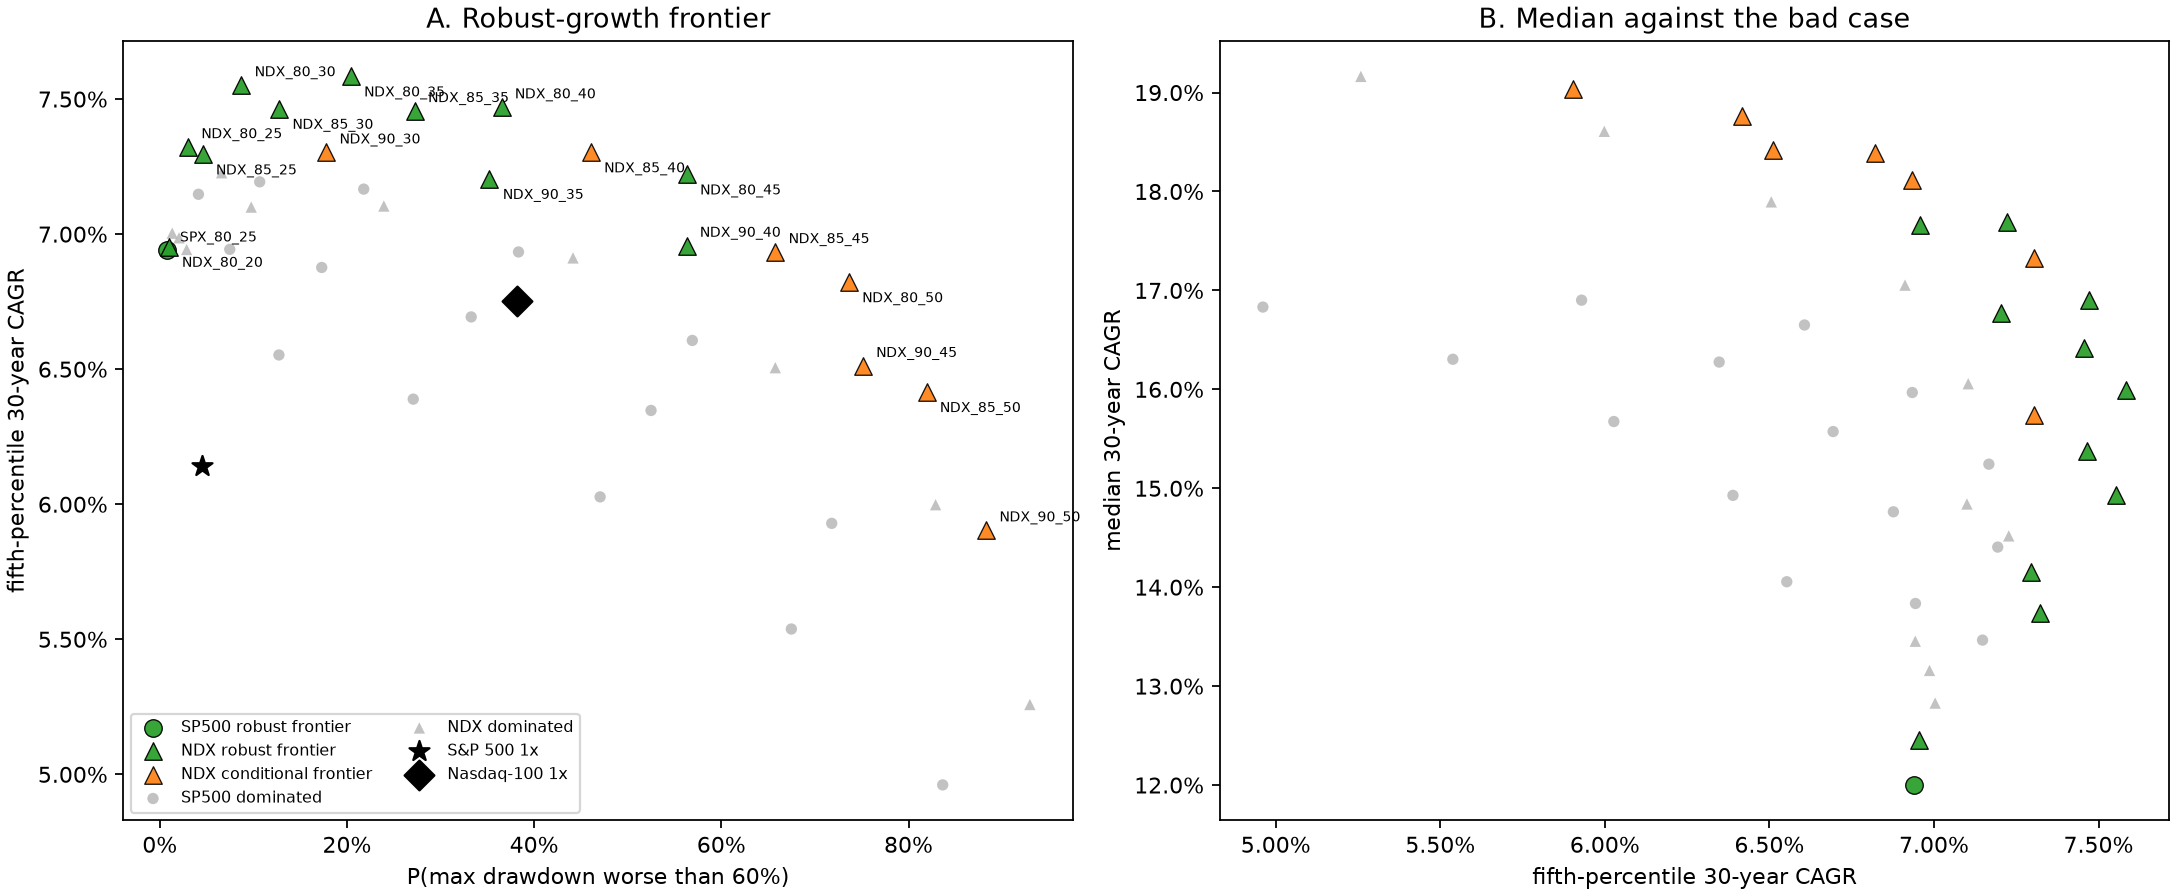
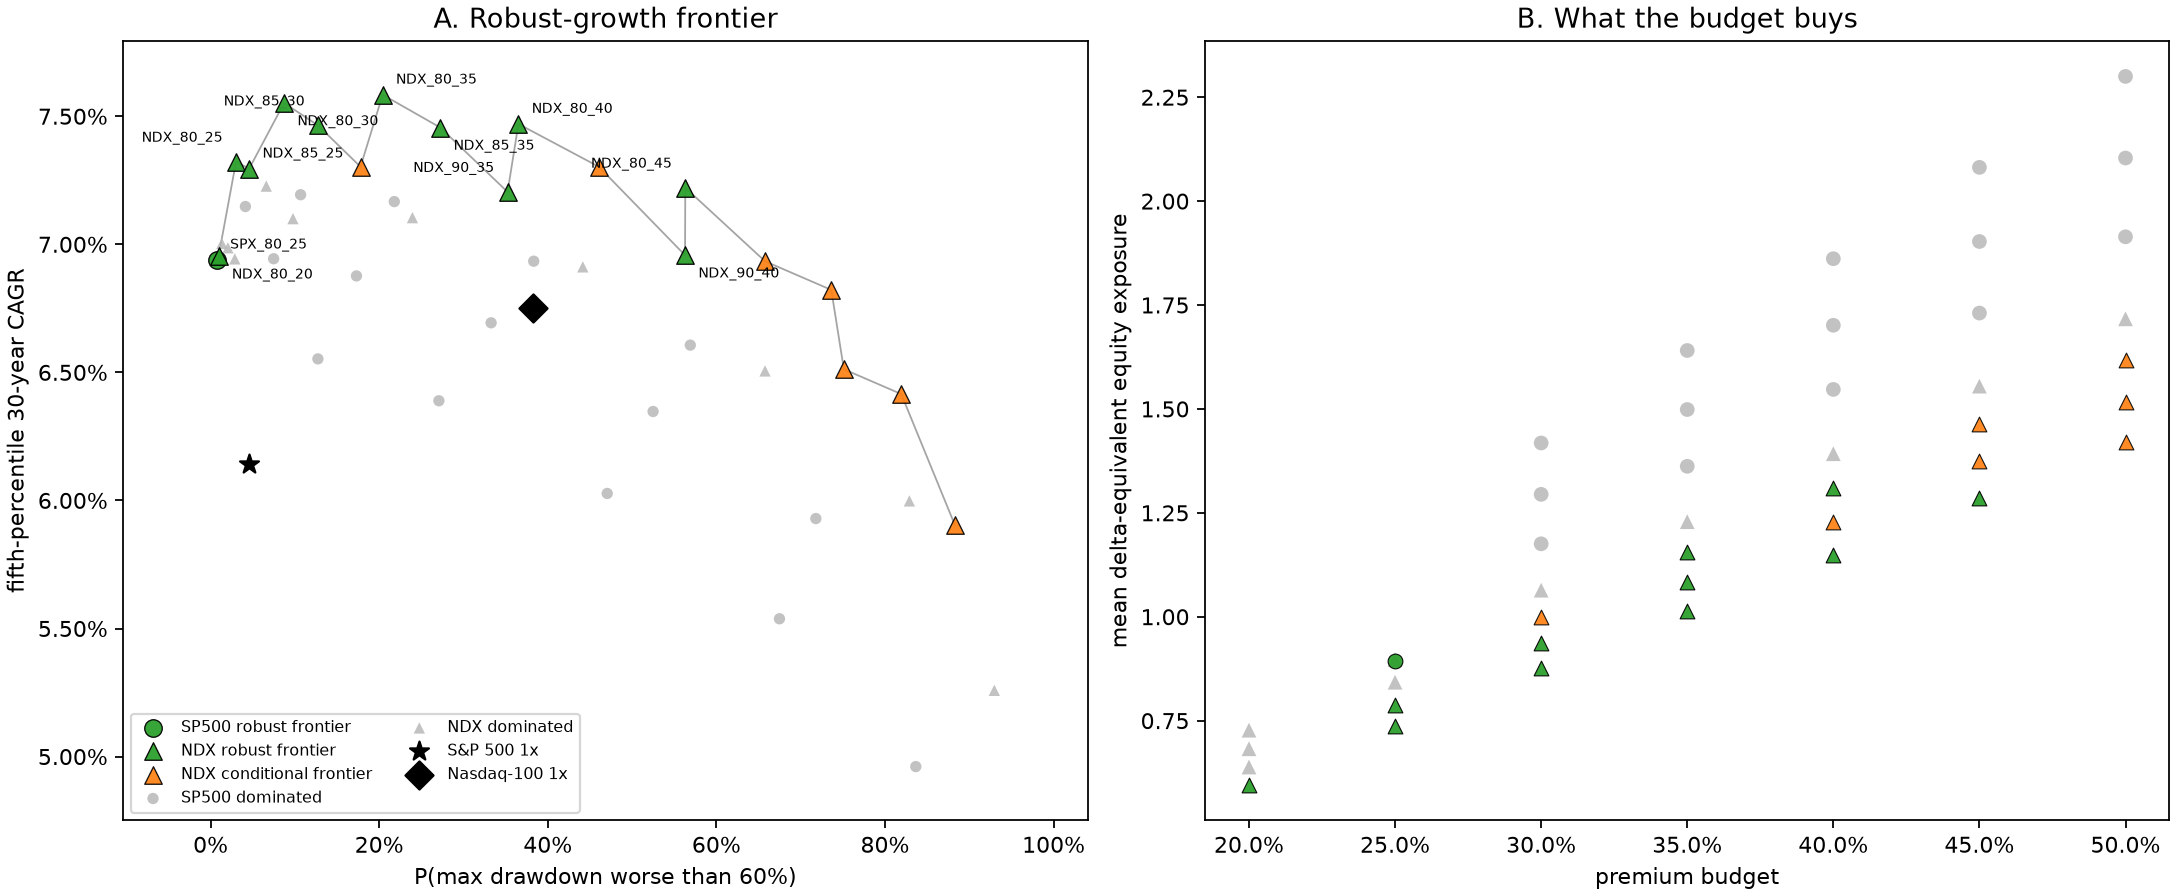
Draw the growth frontier at every horizon, not just at thirty years
The frontier curve was only ever drawn at the horizon a candidate is classified
at. It is now a two-by-three grid: median CAGR against median max drawdown at
ten, twenty and thirty years across the top, and the same cells over median
CAGR against the fifth percentile across the bottom. The panel the growth
figure displaced — what a premium budget buys in delta — moves to the robust
figure, which loses a median-against-p5 panel the new bottom row now covers at
three horizons instead of one. Nothing is dropped.

Colours stay the thirty-year classification on every panel, so the shorter
horizons answer something the thirty-year one cannot: whether a cell that
survives the sensitivities over thirty years is also where a holder would want
to be over the horizon they actually have. Recomputing the frontier per horizon
would be a different question and would make the panels incomparable.

The frontier is now traced with a line, and both rows order that line by risk
rather than by whatever is on the x-axis. Sorting by the fifth percentile drew a
violent zigzag: p5 is not monotone in risk, so it connects the same cells in a
sequence that means nothing. Ordering both rows the same way makes the second
one show where one risk-ordered sequence travels in a different space.

Labels are thinned to the robust cells and cycle through three offsets;
nineteen non-dominated names overprinted at any two.

No number moves — no committed CSV changes. The two manifests differ only in
[…]

diff --git a/src/letf/leaps_frontier.py b/src/letf/leaps_frontier.py
@@ -1040,27 +1040,119 @@ def _scatter(ax, frame, x, y, annotate=True):
                        linewidths=.6, label=f'{family.split()[0]} {verdict}', **style)
     if annotate:
         # Sorted and alternated, because at this density neighbouring frontier
-        # points sit close enough for their labels to overprint each other.
-        named = frame[frame.classification != 'dominated'].sort_values(x)
+        # points sit close enough for their labels to overprint each other. Only
+        # the robust cells are named: labelling every non-dominated one collides
+        # whatever the offsets.
+        named = frame[frame.classification == 'robust frontier'].sort_values(x)
+        # Three offsets rather than two: adjacent frontier cells can sit close
+        # enough that alternating between a pair still overprints, and a little
+        # margin keeps the rightmost label inside the axes.
+        offsets = ((6, 5), (6, -10), (-6, 9))
         for position, (_, row) in enumerate(named.iterrows()):
+            offset = offsets[position % len(offsets)]
             ax.annotate(row.strategy, (row[x], row[y]), textcoords='offset points',
-                        xytext=(6, -9 if position % 2 else 4), fontsize=6.5)
+                        xytext=offset, fontsize=6.5,
+                        ha='right' if offset[0] < 0 else 'left')
+        ax.margins(x=.12, y=.08)
     for axis in (ax.xaxis, ax.yaxis):
         axis.set_major_formatter(PercentFormatter(1))
 
 
-def growth_figure(path: Path, frame: pd.DataFrame, indices: pd.DataFrame):
-    fig, axes = plt.subplots(1, 2, figsize=(13.6, 5.6), constrained_layout=True)
-    ax = axes[0]
-    _scatter(ax, frame, 'median_max_drawdown', 'median_cagr')
+# The horizons the frontier is drawn at. Thirty years is where a candidate is
+# classified; the shorter two are drawn with the same colours so a reader can see
+# where a cell judged robust over thirty years actually sits over ten.
+PANEL_HORIZONS = (10, 20, 30)
+
+
+def _at_horizon(classification: pd.DataFrame, monte: pd.DataFrame, years: int):
+    """The classification joined to one horizon's distribution, and the index rows."""
+    piece = monte[monte.horizon_years == years].set_index('strategy')
+    frame = classification.copy()
+    for column, source in (('median_cagr', 'cagr_p50'), ('p5_cagr', 'cagr_p5'),
+                           ('median_max_drawdown', 'max_drawdown_median'),
+                           ('prob_drawdown_worse_than_60', 'prob_drawdown_worse_than_60'),
+                           ('mean_delta_exposure', 'mean_delta_exposure')):
+        frame[column] = frame.strategy.map(piece[source])
+    return frame, piece
+
+
+def _trace(ax, frame, x, y, order='median_max_drawdown'):
+    """Join the non-dominated cells of each family so the frontier reads as a curve.
+
+    The line is drawn through the cells that are non-dominated *at thirty years*,
+    which is where the classification is defined. On the shorter panels it is
+    therefore the same set of cells traced at a different horizon, not a frontier
+    recomputed there — which is the comparison worth seeing.
+
+    Always ordered by risk rather than by whatever is on the x-axis. The fifth
+    percentile is not monotone in risk, so sorting by it would connect the same
+    cells in a different sequence and draw a zigzag that means nothing; ordering
+    both rows the same way makes the second one show where that one sequence
+    travels in a different space.
+    """
+    for family in MARKER:
+        piece = frame[(frame.family == family)
+                      & (frame.classification != 'dominated')].sort_values(order)
+        if len(piece) > 1:
+            ax.plot(piece[x], piece[y], '-', color='0.35', lw=.8, alpha=.55, zorder=1)
+
+
+def _index_markers(ax, index_rows, x, y):
     for name, marker in zip(INDEX_ROWS, ('*', 'D')):
-        row = indices.loc[name]
-        ax.scatter(row.max_drawdown_median, row.cagr_p50, marker=marker, s=90,
-                   color='k', zorder=5, label=SHORT[name])
-    ax.set_xlabel('median max drawdown')
-    ax.set_ylabel(f'median {FRONTIER_HORIZON}-year CAGR')
+        row = index_rows.loc[name]
+        ax.scatter(row[x], row[y], marker=marker, s=80, color='k', zorder=5,
+                   label=SHORT[name])
+
+
+def growth_figure(path: Path, classification: pd.DataFrame, monte: pd.DataFrame):
+    """The growth frontier at each horizon, over the median against the bad case.
+
+    Colours are the thirty-year classification throughout, so the ten- and
+    twenty-year panels answer a question the thirty-year one cannot: whether the
+    cells that survive the sensitivities over thirty years are also where a
+    holder would want to be over the horizon they actually have.
+    """
+    fig, axes = plt.subplots(2, len(PANEL_HORIZONS), figsize=(16.5, 9.8),
+                             constrained_layout=True)
+    for column, years in enumerate(PANEL_HORIZONS):
+        frame, index_rows = _at_horizon(classification, monte, years)
+        final = years == FRONTIER_HORIZON
+
+        ax = axes[0, column]
+        _trace(ax, frame, 'median_max_drawdown', 'median_cagr')
+        _scatter(ax, frame, 'median_max_drawdown', 'median_cagr', annotate=final)
+        _index_markers(ax, index_rows, 'max_drawdown_median', 'cagr_p50')
+        ax.set_xlabel('median max drawdown')
+        ax.set_ylabel(f'median {years}-year CAGR')
+        ax.set_title(f'{years}-year growth frontier'
+                     + (' (classification horizon)' if final else ''))
+        if column == 0:
+            ax.legend(fontsize=6.5, loc='lower left', ncol=2)
+
+        ax = axes[1, column]
+        _trace(ax, frame, 'p5_cagr', 'median_cagr', order='median_max_drawdown')
+        _scatter(ax, frame, 'p5_cagr', 'median_cagr', annotate=False)
+        _index_markers(ax, index_rows, 'cagr_p5', 'cagr_p50')
+        ax.set_xlabel(f'fifth-percentile {years}-year CAGR')
+        ax.set_ylabel(f'median {years}-year CAGR')
+        ax.set_title(f'{years}-year median against the bad case')
+    fig.savefig(path, dpi=160)
+    plt.close(fig)
+
+
+def robust_figure(path: Path, classification: pd.DataFrame, monte: pd.DataFrame):
+    """The robust-growth frontier, and what a premium budget actually buys."""
+    fig, axes = plt.subplots(1, 2, figsize=(13.6, 5.6), constrained_layout=True)
+    frame, index_rows = _at_horizon(classification, monte, FRONTIER_HORIZON)
+
+    ax = axes[0]
+    _trace(ax, frame, 'prob_drawdown_worse_than_60', 'p5_cagr')
+    _scatter(ax, frame, 'prob_drawdown_worse_than_60', 'p5_cagr')
+    _index_markers(ax, index_rows, 'prob_drawdown_worse_than_60', 'cagr_p5')
+    ax.set_xlabel('P(max drawdown worse than 60%)')
+    ax.set_ylabel(f'fifth-percentile {FRONTIER_HORIZON}-year CAGR')
     ax.legend(fontsize=7, loc='lower left', ncol=2)
-    ax.set_title('A. Growth frontier')
+    ax.set_title('A. Robust-growth frontier')
 
     ax = axes[1]
     for family, marker in MARKER.items():
@@ -1074,28 +1166,6 @@ def growth_figure(path: Path, frame: pd.DataFrame, indices: pd.DataFrame):
     ax.set_ylabel('mean delta-equivalent equity exposure')
     ax.xaxis.set_major_formatter(PercentFormatter(1))
     ax.set_title('B. What the budget buys')
-    fig.savefig(path, dpi=160)
-    plt.close(fig)
-
-
-def robust_figure(path: Path, frame: pd.DataFrame, indices: pd.DataFrame):
-    fig, axes = plt.subplots(1, 2, figsize=(13.6, 5.6), constrained_layout=True)
-    ax = axes[0]
-    _scatter(ax, frame, 'prob_drawdown_worse_than_60', 'p5_cagr')
-    for name, marker in zip(INDEX_ROWS, ('*', 'D')):
-        row = indices.loc[name]
-        ax.scatter(row.prob_drawdown_worse_than_60, row.cagr_p5, marker=marker, s=90,
-                   color='k', zorder=5, label=SHORT[name])
-    ax.set_xlabel('P(max drawdown worse than 60%)')
-    ax.set_ylabel(f'fifth-percentile {FRONTIER_HORIZON}-year CAGR')
-    ax.legend(fontsize=7, loc='lower left', ncol=2)
-    ax.set_title('A. Robust-growth frontier')
-
-    ax = axes[1]
-    _scatter(ax, frame, 'p5_cagr', 'median_cagr', annotate=False)
-    ax.set_xlabel(f'fifth-percentile {FRONTIER_HORIZON}-year CAGR')
-    ax.set_ylabel(f'median {FRONTIER_HORIZON}-year CAGR')
-    ax.set_title('B. Median against the bad case')
     fig.savefig(path, dpi=160)
     plt.close(fig)
 
@@ -1161,11 +1231,8 @@ def run(root: Path, workers=None, paths=None, sensitivity_paths=None):
     for name, frame in outputs.items():
         frame.pipe(stable_floats).to_csv(reports / name, index=False,
                                          float_format=FLOAT_FORMAT)
-    plotted = classification.merge(
-        thirty.reset_index()[['strategy', 'family']], on='strategy', how='left',
-        suffixes=('', '_mc'))
-    growth_figure(reports / 'leaps_frontier_growth.png', plotted, thirty)
-    robust_figure(reports / 'leaps_frontier_robust.png', plotted, thirty)
+    growth_figure(reports / 'leaps_frontier_growth.png', classification, primary)
+    robust_figure(reports / 'leaps_frontier_robust.png', classification, primary)
     report(reports, inputs, historical, check, primary, sensitivities, classification,
            hypotheses, pairs, nasdaq, held, tiers, chosen, count)
 
@@ -1846,8 +1913,15 @@ drawn on the figures for reference but are excluded from the domination test:
 letting an unlevered index sit at the low-risk corner of a LEAPS frontier would
 define the question away.
 
-- **Growth frontier** — median {FRONTIER_HORIZON}-year CAGR against median max drawdown: `reports/leaps_frontier_growth.png`, panel A. Panel B is what each premium budget buys in delta-equivalent equity.
-- **Robust-growth frontier** — fifth-percentile {FRONTIER_HORIZON}-year CAGR against P(max drawdown worse than 60%): `reports/leaps_frontier_robust.png`, panel A. Panel B is the median against the bad case.
+- **Growth frontier** — median CAGR against median max drawdown, drawn at {phrase([str(y) for y in PANEL_HORIZONS])} years across the top row of `reports/leaps_frontier_growth.png`. The bottom row is the same cells over median CAGR against the fifth percentile, at the same three horizons.
+- **Robust-growth frontier** — fifth-percentile {FRONTIER_HORIZON}-year CAGR against P(max drawdown worse than 60%): `reports/leaps_frontier_robust.png`, panel A. Panel B is what each premium budget buys in delta-equivalent equity.
+
+Colours on every panel are the {FRONTIER_HORIZON}-year classification, and the line joins the
+cells that are non-dominated at {FRONTIER_HORIZON} years, ordered by risk. So the ten- and
+twenty-year panels are not frontiers recomputed at those horizons — they are the
+same cells, coloured by the same verdict, seen over the horizon a holder actually
+has. Where the curve keeps its shape, the {FRONTIER_HORIZON}-year classification is telling you
+something about a decade too; where it does not, it is not.
 
 Domination is epsilon-domination on the prespecified tolerances: {CAGR_TOLERANCE:.2%} of CAGR,
 {DRAWDOWN_TOLERANCE:.0%} of drawdown, {PROBABILITY_TOLERANCE:.0%} of tail probability. Two cells inside those are the

diff --git a/tests/test_leaps_frontier.py b/tests/test_leaps_frontier.py
@@ -1,4 +1,5 @@
 import ast
+import inspect
 import re
 import tempfile
 import unittest
@@ -21,7 +22,10 @@ from letf.leaps_frontier import (ANCHOR, APPROACH_BAND, Arm, BASELINE,
                                  REGIME_AXES, RETURN_TIERS, ROBUST_HOLDS, ROLL_LABEL,
                                  ROLL_LABELS, SENSITIVITY_ARMS, SLOT, SP_BUDGETS,
                                  SP_MONEYNESS, SP_STRUCTURES, SP_TARGETS, STRUCTURES,
-                                 UNDERLYING, Case, _dominates, _formats,
+                                 INDEX_ROWS, PANEL_HORIZONS, UNDERLYING, Case,
+                                 _at_horizon,
+                                 _dominates, _formats, _trace, growth_figure,
+                                 robust_figure,
                                  cheapest_reaching, classify, committed_check, dominators,
                                  frontier_flags, frontier_pool, historical_table, key,
                                  load, ndx_hypotheses, neighbour_support, regimes, report,
@@ -820,3 +824,47 @@ class EntryPointTests(unittest.TestCase):
 TOP_LEVEL_NAMES = {node.name for node in
                    ast.parse(EntryPointTests.SOURCE.read_text()).body
                    if isinstance(node, (ast.FunctionDef, ast.ClassDef))}
+
+
+class FigureTests(unittest.TestCase):
+    """The figures are excluded from the reproducibility gate, so they need their own."""
+
+    @classmethod
+    def setUpClass(cls):
+        cls.classification = pd.read_csv(ROOT / 'reports/leaps_frontier_classification.csv')
+        cls.monte = pd.read_csv(ROOT / 'reports/leaps_frontier_monte_carlo.csv')
+
+    def test_both_figures_render(self):
+        with tempfile.TemporaryDirectory() as directory:
+            for name, draw in (('growth.png', growth_figure), ('robust.png', robust_figure)):
+                path = Path(directory) / name
+                draw(path, self.classification, self.monte)
+                self.assertGreater(path.stat().st_size, 20000, name)
+
+    def test_the_growth_figure_covers_every_panel_horizon(self):
+        """A horizon with no rows would silently draw an empty panel."""
+        for years in PANEL_HORIZONS:
+            self.assertIn(years, set(self.monte.horizon_years), years)
+
+    def test_each_horizon_supplies_every_plotted_column(self):
+        for years in PANEL_HORIZONS:
+            frame, indices = _at_horizon(self.classification, self.monte, years)
+            for column in ('median_cagr', 'p5_cagr', 'median_max_drawdown',
+                           'prob_drawdown_worse_than_60', 'mean_delta_exposure'):
+                self.assertFalse(frame[column].isna().any(), f'{years}y {column}')
+            for name in INDEX_ROWS:
+                self.assertIn(name, indices.index)
+
+    def test_the_horizon_join_takes_that_horizon_s_numbers(self):
+        """The classification carries 30-year values; the panels must not reuse them."""
+        thirty, _ = _at_horizon(self.classification, self.monte, FRONTIER_HORIZON)
+        ten, _ = _at_horizon(self.classification, self.monte, 10)
+        pd.testing.assert_series_equal(thirty.median_cagr,
+                                       self.classification.median_cagr)
+        self.assertFalse(ten.median_cagr.equals(thirty.median_cagr))
+
+    def test_the_frontier_line_is_ordered_by_risk_not_by_the_axis(self):
+        """Sorting by the fifth percentile would connect the same cells as a zigzag."""
+        source = inspect.getsource(_trace)
+        self.assertIn("order='median_max_drawdown'", source)
+        self.assertIn('sort_values(order)', source)

diff --git a/reports/leaps_frontier_results.md b/reports/leaps_frontier_results.md
@@ -232,8 +232,15 @@ drawn on the figures for reference but are excluded from the domination test:
 letting an unlevered index sit at the low-risk corner of a LEAPS frontier would
 define the question away.
 
-- **Growth frontier** — median 30-year CAGR against median max drawdown: `reports/leaps_frontier_growth.png`, panel A. Panel B is what each premium budget buys in delta-equivalent equity.
-- **Robust-growth frontier** — fifth-percentile 30-year CAGR against P(max drawdown worse than 60%): `reports/leaps_frontier_robust.png`, panel A. Panel B is the median against the bad case.
+- **Growth frontier** — median CAGR against median max drawdown, drawn at 10, 20 and 30 years across the top row of `reports/leaps_frontier_growth.png`. The bottom row is the same cells over median CAGR against the fifth percentile, at the same three horizons.
+- **Robust-growth frontier** — fifth-percentile 30-year CAGR against P(max drawdown worse than 60%): `reports/leaps_frontier_robust.png`, panel A. Panel B is what each premium budget buys in delta-equivalent equity.
+
+Colours on every panel are the 30-year classification, and the line joins the
+cells that are non-dominated at 30 years, ordered by risk. So the ten- and
+twenty-year panels are not frontiers recomputed at those horizons — they are the
+same cells, coloured by the same verdict, seen over the horizon a holder actually
+has. Where the curve keeps its shape, the 30-year classification is telling you
+something about a decade too; where it does not, it is not.
 
 Domination is epsilon-domination on the prespecified tolerances: 0.25% of CAGR,
 2% of drawdown, 2% of tail probability. Two cells inside those are the
